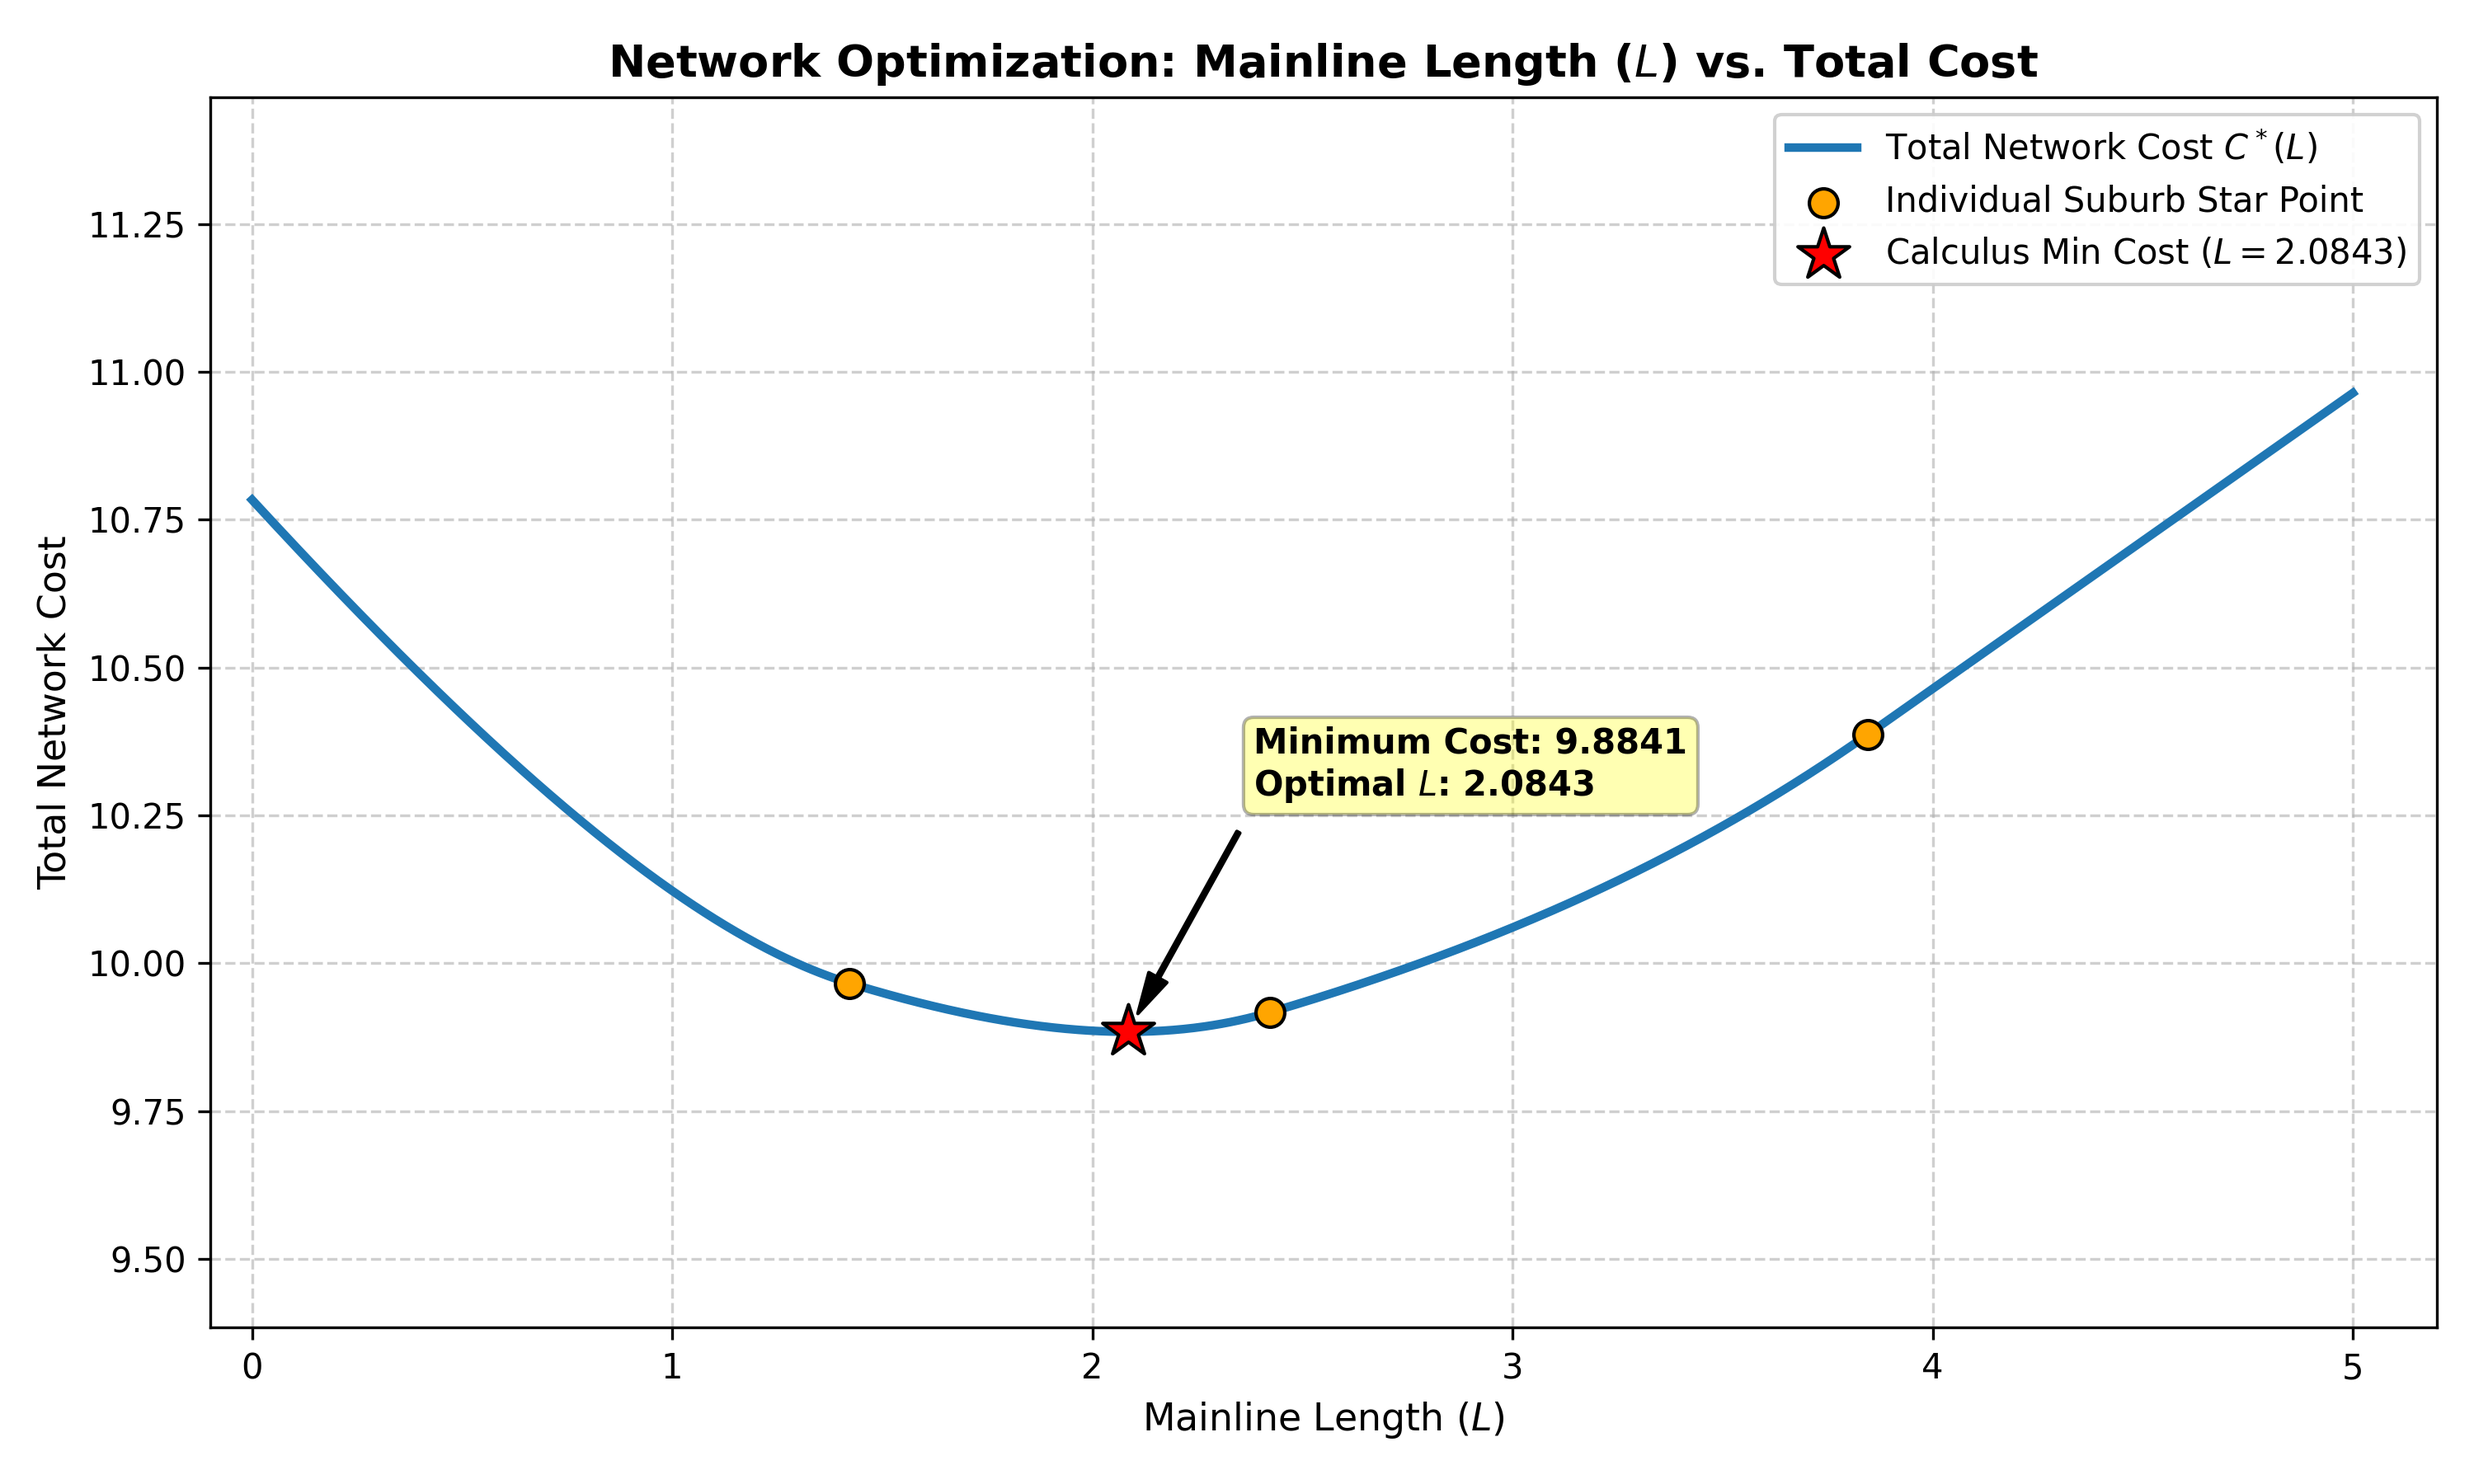
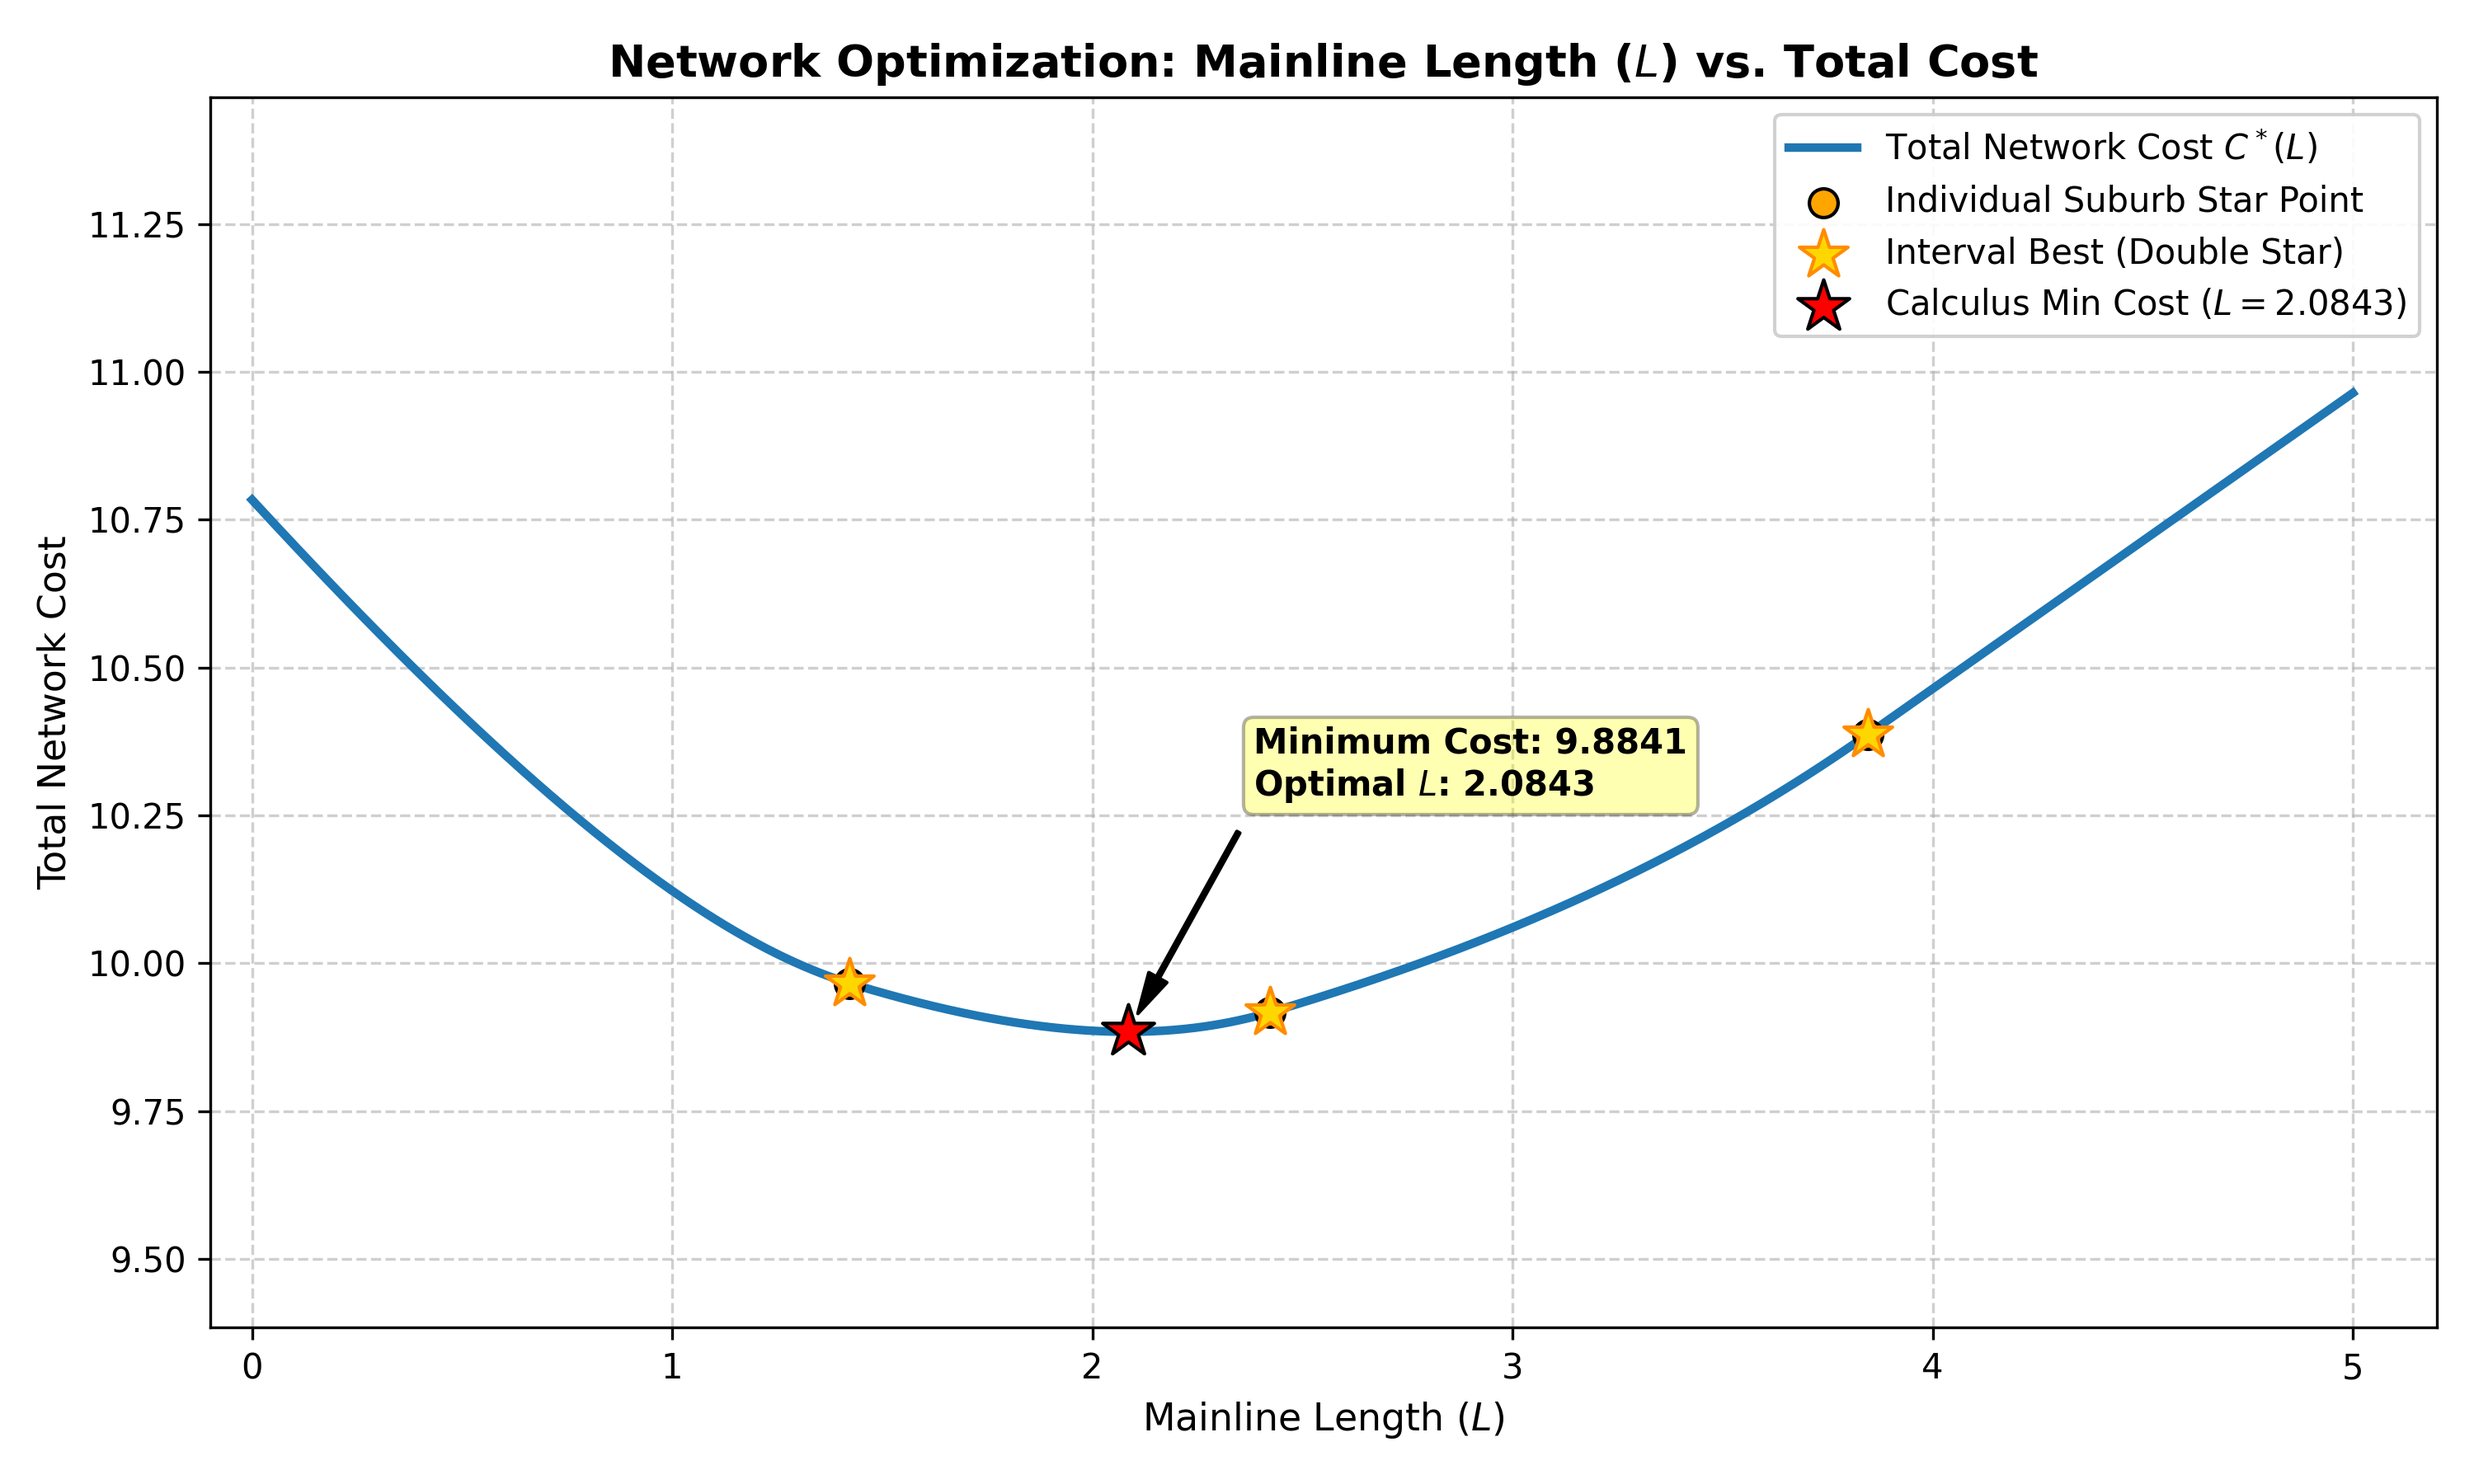
included double star points and timing

diff --git a/subway.py b/subway.py
@@ -1,7 +1,7 @@
 import matplotlib.pyplot as plt
 import numpy as np
 import pandas as pd
-
+import time
 
 # function to get a star point given a suburb location and alpha
 def get_star_point_analytical(suburb_x, suburb_y, a):
@@ -69,7 +69,7 @@ def find_best_L_analytical(df, a, epsilon=1e-6):
     for f_star in df["star_y"]:
         if 0 < f_star < max_search_bound:
             critical_points.append(f_star)
-
+    critical_points.append(max_search_bound)
     critical_points = sorted(list(set(critical_points)))
 
     # baseline scenario
@@ -83,30 +83,52 @@ def find_best_L_analytical(df, a, epsilon=1e-6):
         if cost < best_cost:
             best_cost = cost
             best_L = pt
+    
+    double_star_points = []
 
-    # binary search within each continuous interval
-    for i in range(len(critical_points)-1):
+    for i in range(len(critical_points) - 1):
         LO = critical_points[i]
         HI = critical_points[i+1]
 
-        # if signs are identical, no root exists in this interval
-        if compute_c_prime(LO, df, a) * compute_c_prime(HI, df, a) > 0:
-            continue
-        while (HI-LO) > epsilon:
-            MID = (LO + HI)/2.0
-            deriv = compute_c_prime(MID, df, a)
-            if deriv < 0:
-                LO = MID
-            else:
-                HI = MID
+        # 1. Establish baseline tracking for the current interval boundaries
+        _, cost_lo = get_optimal_connection(df, LO, a)
+        _, cost_hi = get_optimal_connection(df, HI, a)
+        
+        if cost_lo < cost_hi:
+            interval_best_L = LO
+            interval_best_cost = cost_lo
+        else:
+            interval_best_L = HI
+            interval_best_cost = cost_hi
 
-        candidate_L = (LO + HI) / 2.0
-        _, cost = get_optimal_connection(df, candidate_L, a) #C*(LO+HI/2)
-        if cost < best_cost: # (MIN)
-            best_cost = cost
-            best_L = candidate_L
+        # 2. If the derivative crosses zero, search for a deeper valley inside the interval
+        if compute_c_prime(LO, df, a) * compute_c_prime(HI, df, a) <= 0:
+            while (HI - LO) > epsilon:
+                MID = (LO + HI) / 2.0
+                deriv = compute_c_prime(MID, df, a)
+                if deriv < 0:
+                    LO = MID
+                else:
+                    HI = MID
 
-    return best_L, best_cost  
+            candidate_L = (LO + HI) / 2.0
+            _, candidate_cost = get_optimal_connection(df, candidate_L, a)
+            
+            # If the middle valley beats the boundary edges, update the interval winner
+            if candidate_cost < interval_best_cost:
+                interval_best_L = candidate_L
+                interval_best_cost = candidate_cost
+
+        # 3. Append the final calculated Double Star Point for this specific interval
+        double_star_points.append((interval_best_L, interval_best_cost))
+
+        # 4. Check if this interval's best point beats the overall Global Minimum (MIN)
+        if interval_best_cost < best_cost:
+            best_cost = interval_best_cost
+            best_L = interval_best_L
+
+    # Return the global targets as well as the array containing all interval best points
+    return best_L, best_cost, double_star_points
 
 # function that takes all suburbs, all star points, and a main line length and outputs the optimal connection points
 def get_optimal_connection(df, main_length, a): # C*(L)
@@ -130,7 +152,7 @@ def get_optimal_connection(df, main_length, a): # C*(L)
 
     return actual_connections, total_network_cost
 
-def draw_networks(df, a, best_L, main_length, graph_num = 6):
+def draw_networks(df, a, best_L, main_length, graph_num = 6, colors = ["#1f77b4", "#9467bd", "#e377c2", "#ff7f0e", "#17becf"]):
     
     plot_candidates = np.linspace(0, main_length, graph_num)
 
@@ -147,18 +169,22 @@ def draw_networks(df, a, best_L, main_length, graph_num = 6):
         ax.plot([0, 0], [0, L], color="black", linewidth=4, zorder=2, label="Mainline")  # mainline
         ax.plot([0, 0], [L, main_length], color="black", linewidth=2, linestyle=":", alpha=0.3)  # possible mainline
 
-        for (sub_x, sub_y, optimal_star_y), actual_connect_y in zip(zip(df["suburb_x"], df["suburb_y"], df["star_y"]), actual_connections):
-            # suburb node
-            ax.scatter(sub_x, sub_y, color="blue", s=80, edgecolors="black", zorder=4)
-            # link
-            ax.plot([sub_x, 0], [sub_y, actual_connect_y], color="orange", linewidth=2, linestyle="--", zorder=3,)
-            # conection point
-            ax.scatter(0, actual_connect_y, color="orange", s=40, zorder=4)
-            # ideal star points
-            ax.scatter( 0, optimal_star_y,  color="limegreen", s=100,  marker="*",  edgecolors="darkgreen", zorder=4,label="Ideal Star Point" if i == 0 else "",
-            )
+        for idx, (row, actual_connect_y) in enumerate(zip(df.iterrows(), actual_connections)):
+            _, data = row
+            sub_x, sub_y, optimal_star_y = data["suburb_x"], data["suburb_y"], data["star_y"]
+            sub_color = colors[idx % len(colors)]
 
-         # Tag visual winner based on structural match parameters
+            # suburb node (uses matching unique color)
+            ax.scatter(sub_x, sub_y, color=sub_color, s=90, edgecolors="black", zorder=4)
+            # link line to the axis
+            ax.plot([sub_x, 0], [sub_y, actual_connect_y], color="orange", linewidth=2, linestyle="--", zorder=3)
+            # connection drop-point along the mainline
+            ax.scatter(0, actual_connect_y, color="orange", s=40, zorder=4)
+            # ideal Star Point (Now matches the same unique color as its suburb node!)
+            ax.scatter(0, optimal_star_y, color=sub_color, s=120, marker="*", edgecolors="black", zorder=4,
+                       label="Ideal Star Point" if (i == 0 and idx == 0) else "")
+            
+         # tag visual winner based on structural match parameters
         is_optimal = " (OPTIMAL CHOICE)" if np.isclose(L, best_L, atol=0.51) else ""
 
         ax.set_title(f"Network {i+1}: L = {L:.1f}{is_optimal}\nCost: {display_cost:.2f}", fontsize=10, weight="bold" if is_optimal else "normal", color="darkgreen" if is_optimal else "black",)
@@ -187,7 +213,7 @@ def plot_cost_optimization(df, a):
     max_plot_length = float(df["suburb_y"].max())
 
     # finding optimal length and lowest cost
-    best_L_calc, min_cost_calc = find_best_L_analytical(df, a)
+    best_L_calc, min_cost_calc, double_star_points = find_best_L_analytical(df, a)
 
     # gets continuous points along main length and calculates costs
     L_spectrum = np.linspace(0, max_plot_length, 1000)
@@ -218,6 +244,18 @@ def plot_cost_optimization(df, a):
             s=70,
             zorder=4,
             label="Individual Suburb Star Point" if idx == 0 else "",
+        )
+
+    for i, (interval_L, interval_cost) in enumerate(double_star_points):
+        plt.scatter(
+            interval_L,
+            interval_cost,
+            color="gold",
+            marker="*",
+            s=220,
+            edgecolor="darkorange",
+            zorder=4,
+            label="Interval Best (Double Star)" if i == 0 else "",
         )
 
     # highlight the minimum found via Calculus + Binary Search
@@ -258,7 +296,58 @@ def plot_cost_optimization(df, a):
     plt.savefig("cost_vs_length_optimization.png", dpi=300)
     plt.show()
 
+def run_timing_comparison(df, a, main_length):
 
+    # individual Suburb Star Point Calculation Timing
+    start_bf = time.perf_counter()
+    _ = [
+        get_star_point_brute_force(x, y, a, main_length)
+        for x, y in zip(df["suburb_x"], df["suburb_y"])
+    ]
+    end_bf = time.perf_counter()
+    bf_star_time = end_bf - start_bf
+
+    start_an = time.perf_counter()
+    _ = [
+        get_star_point_analytical(x, y, a)
+        for x, y in zip(df["suburb_x"], df["suburb_y"])
+    ]
+    end_an = time.perf_counter()
+    an_star_time = end_an - start_an
+
+    print(f"Brute Force Star Points Time: {bf_star_time:.6f} seconds")
+    print(f"Analytical Star Points Time:  {an_star_time:.6f} seconds")
+    if an_star_time > 0:
+        print(
+            f"    Analytical math is {bf_star_time / an_star_time:.1f}x faster for points."
+        )
+
+    print()
+
+    # global Mainline Length (L) Optimization Timing
+    start_bf_L = time.perf_counter()
+    mainline_candidates = np.linspace(0, main_length, main_length * 100)
+    best_overall_cost = float("inf")
+    for L in mainline_candidates:
+        _, total_network_cost = get_optimal_connection(df, L, a)
+        if total_network_cost < best_overall_cost:
+            best_overall_cost = total_network_cost
+    end_bf_L = time.perf_counter()
+    bf_L_time = end_bf_L - start_bf_L
+
+    start_calc_L = time.perf_counter()
+    _, _, _ = find_best_L_analytical(df, a)
+    end_calc_L = time.perf_counter()
+    calc_L_time = end_calc_L - start_calc_L
+
+    print(f"Brute Force Global Search Time:  {bf_L_time:.6f} seconds")
+    print(f"Calculus / Binary Search Time:   {calc_L_time:.6f} seconds")
+    if calc_L_time > 0:
+        print(
+            f"    Calculus Search is {bf_L_time / calc_L_time:.1f}x faster for global optimization."
+        )
+
+    print()
 
 
 
@@ -277,10 +366,11 @@ df = pd.DataFrame(
 )
 
 plot_cost_optimization(df, a)
-
+run_timing_comparison(df, a, main_length)
 bf_y, an_y = compare(df, a, main_length)
 print("Brute force star points:", bf_y)
 print("Analytical star points:", an_y)
+print()
 
 star_y_list = [get_star_point_analytical(x, y, a) for x, y in zip(df["suburb_x"], df["suburb_y"])]
 
@@ -292,7 +382,7 @@ df["star_y"] = star_y_list
 df = df.sort_values(by = "star_y").reset_index(drop=True)
 print(df)
 
-best_L, min_cost = find_best_L_analytical(df, a)
+best_L, min_cost, double_star_points = find_best_L_analytical(df, a)
 print(f"\n[Calculus Search] Best Mainline Length: {best_L:.6f}")
 print(f"[Calculus Search] Minimum Overall Network Cost: {min_cost:.6f}")
 
@@ -318,9 +408,4 @@ for L in mainline_candidates:
 print(f"\n[Brute Force] Best Mainline Length: {best_L:.6f}")
 print(f"[Brute Force] Minimum Overall Network Cost: {best_overall_cost:.6f}")
 
-
-
-"""
-Comparing brute force to analytical
-"""
-
+print(double_star_points)
